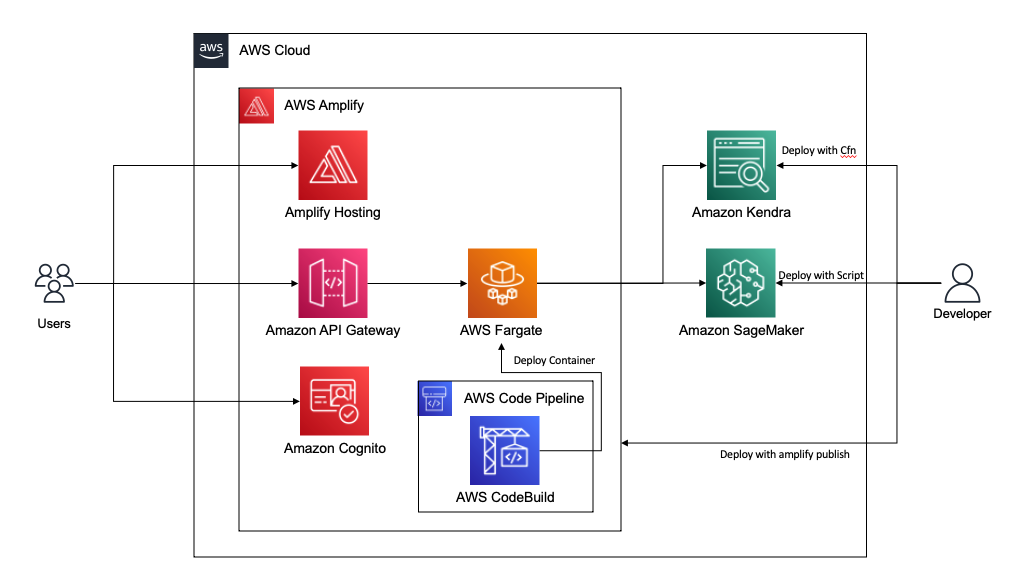
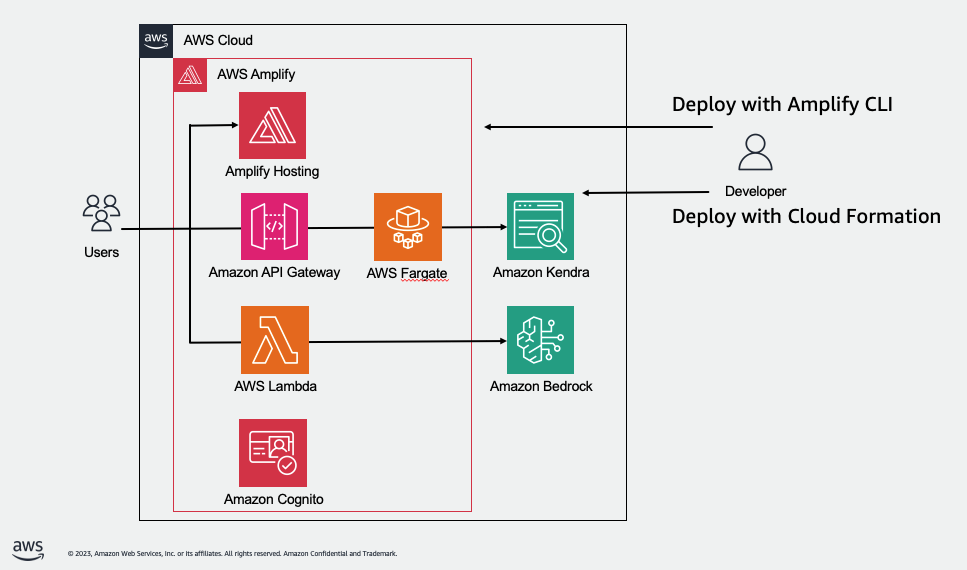
Update documentation

Changed region(s): [[0.0, 0.0298, 0.9928, 0.9842], [0.5895, 0.1491, 0.6205, 0.1789]]

diff --git a/src/README.md b/src/README.md
@@ -1,37 +1,40 @@
 # JP RAG SAMPLE (CLIENT)
 
+![](/docs/png/layout.png)
+
 ## ディレクトリ構造
 ```zsh
-/rag-kendra
-|--src  # client の web application 実装があるディレクトリ
-|  |--App.tsx  # メインのReactコンポーネント (TopBar, FilterBar, InteractionAreaで構成される)
-|  |--README.md  # README
-|  |--aws-exports.d.ts  # AWSリソース（例えば認証、API、ストレージなど）への接続情報
-|  |--layout  # Reactコンポーネントの実装 (TopBar, FilterBar, InteractionArea)
-|  |  |--FilterBar.tsx  # 画面左にあるフィルタ (FilterBar)
-|  |  |--InteractionArea.tsx  # 画面中央の表示のエントリー (InteractionArea)
-|  |  |--SpeachBalloon  # 画面中央に表示する AI, Kendra, RAG の部品群
-|  |  |  |--AI.tsx  # AIモード時の吹き出し
-|  |  |  |--Ballon.tsx  # 入力したクエリ文字と各吹き出しを表示するコンポーネント
-|  |  |  |--Human.tsx  # 人の入力文字の吹き出し
-|  |  |  |--Kendra.tsx  # Kendraの吹き出し (Kendraモード, RAGモード時の吹き出し)
-|  |  |  |--components  # 吹き出しを構成する部品
-|  |  |  |  |--AICore.tsx  # AIのCore部品。AIとRAGから被参照
-|  |  |  |  |--HighlightedTexts.tsx  # 太文字表示をする部品
-|  |  |  |  |--KendraResultDoc.tsx  # Kendra からのresponseのうち　document list を表示する部品
-|  |  |  |  |--KendraResultExcerpt.tsx  # Kendra からのresponseのうち 抜粋を表示する部品
-|  |  |  |  |--KendraResultFAQ.tsx  # Kendra からのresponseのうち FAQ を表示する部品
-|  |  |  |  |--KendraResultFeatured.tsx  # Kendra からのresponseのうち Featured result を表示する部品
-|  |  |  |  |--QuotedTexts.tsx  # 引用部分(eg.[0])をリンクにする部品
-|  |  |--TOTP.tsx  # 検索バー内のMFAを表示する部品
-|  |  |--TopBar.tsx  # 画面上部にある検索バー (TopBar)
-|  |--main.tsx  # Reactアプリケーションのエントリーポイント
-|  |--utils  # ユーティリティ
-|  |  |--constant.tsx  # 定数
-|  |  |--function.tsx  # server からの response を client 表示ように format を変更する関数定義
-|  |  |--interface.tsx  # server からの response の型定義
-|  |  |--serivce.tsx  # server との通信をする関数定義
-|  |--vite-env.d.ts  # 環境変数の型定義
+/rag-kendra/src/
+├── App.tsx  # メインのReactコンポーネント (TopBar, FilterBarなど)
+├── README.md  # README
+├── aws-exports.d.ts  # AWSリソース（例えば認証、API、ストレージなど）への接続情報
+├── i18n  # 多言語対応用リソース
+│   ├── configs.ts
+│   ├── en.json
+│   └── ja.json
+├── layout  # レイアウト
+│   ├── AiArea.tsx  # AI エージェントエリア
+│   ├── FilterArea.tsx  # フィルタエリア
+│   ├── InputWithSuggest.tsx  # 検索バー
+│   ├── KendraAreaAssets
+│   │   ├── KendraAreaMain.tsx  # 検索結果エリア
+│   │   └── components
+│   │       ├── HighlightedTexts.tsx  # 太文字化
+│   │       ├── KendraResultDoc.tsx  # 一般の文章
+│   │       ├── KendraResultExcerpt.tsx  # 抜粋された文章
+│   │       ├── KendraResultFAQ.tsx  # FAQ
+│   │       └── KendraResultFeatured.tsx  # 管理者にハイライトされた文章
+│   ├── MainArea.tsx  # 画面中央
+│   ├── TOTP.tsx  # 認証系
+│   └── TopBar.tsx  # 画面上部
+├── main.tsx  # Reactアプリケーションのエントリーポイント
+├── utils  # ユーティリティ
+│   ├── constant.tsx  # 定数
+│   ├── function.tsx  # server からのレスポンス整形など
+│   ├── interface.tsx  # 型定義
+│   ├── service.ts  # server との通信
+│   └── top_queries.json  # 上位クエリ
+└── vite-env.d.ts # 環境変数の型定義
 ```
 
 ## ローカル開発

diff --git a/docs/DeveloperGuide.md b/docs/DeveloperGuide.md
@@ -8,12 +8,7 @@ Kendra のインデックスを作成する。
 - 参考：指定したサイトから自動でデータをクローリングしてインデックスする [CloudFormation Template サンプル](../kendra/kendra-docs-index.yaml)
 - __このCloudFormationテンプレートで作成するスタックの名前は必ず控えておいてください。後で使います__
 
-### 2. LLM を SageMaker Endpoint にデプロイ
-
-SageMaker エンドポイントを作成する。
-- 参考: エンドポイントの作成方法は、([スクリプト](../llm/README.md)）を参照ください。Rinna の推論エンドポイントを CloudShel からデプロイする方法が記載されています。
-
-### 3. アプリのデプロイ
+### 2. アプリのデプロイ
 
 1. `npm install -g @aws-amplify/cli@12.12.0` で Amplify CLI のインストール
 2. `amplify configure` で認証情報を設定。リージョンの設定がアプリケーションのリージョンになるため注意。
@@ -34,8 +29,7 @@ SageMaker エンドポイントを作成する。
    1. `bash setenv.sh　CloudFormationStackの名前＋-Index`を実行する（スタック名がKendraRAGなら`bash setenv.sh KendraRAG-Index`となる）。このスクリプトで以下の処理が行われる。
       - `amplify/backend/api/fargate/src/docker-compose-template.yml` を同一フォルダ内に docker-compose.yml としてコピー
       - `.env` ファイルを作成し、VITE_INDEX_ID に Kendra の Index ID を設定
-   2. (Anthropic を使用する場合) `amplify/backend/api/fargate/secrets/.secret-anthropic` ファイルを作成し、Anthropic の API キーを入れる。また、`amplify/backend/api/fargate/src/docker-compose.yml` のコメントを解除する。ファイルがない/空の場合はエラーになるため使わない場合はコメントアウトする。
-   4. `amplify/backend/api/fargate/src/docker-compose.yml` の環境変数を必要に応じて変更する。
+   2. `amplify/backend/api/fargate/src/docker-compose.yml` の環境変数を必要に応じて変更する。
       - (MUST) `AWS_REGION` を amplify を立ち上げるリージョンにする。
       - (MUST) `AWS_BEDROCK_REGION` には bedrock の利用リージョンを指定
       - (WANT) `ALLOW_ORIGINS` は Access-Control-Allow-Origin の設定値です。
@@ -44,7 +38,6 @@ SageMaker エンドポイントを作成する。
 6.  `amplify publish` でデプロイ
    1. `? Are you sure you want to continue? (Y/n) ` は Y と入力
       - もし `You are not authorized to perform this operation` というエラーが発生した場合、ユーザー に `AdministratorAccess` ポリシー を付与して再試行お願いします。
-   2. `? Secret configuration detected. Do you wish to store new values in the cloud?` Yes  # <- 初回は Secret Manager に保存する
 
 
 ## 変更のデプロイ

diff --git a/amplify/backend/api/fargate/src/langchain/README.md b/amplify/backend/api/fargate/src/langchain/README.md
@@ -29,7 +29,6 @@
 3. `.env` ファイルを編集
       - (MUST) `AWS_REGION` は AWS のリージョンを指定(Kendra や SageMaker が動いている)
       - (MUST) `AWS_BEDROCK_REGION` には bedrock の利用リージョンを指定
-      - (MUST) `KENDRA_INDEX_ID` を Kendra の Index ID に指定
       - (MUST) `AWS_ACCESS_KEY_ID` に Amplifyを操作できるユーザ のアクセスキーを設定
       - (MUST) `AWS_SECRET_ACCESS_KEY` に に Amplifyを操作できるユーザ のシークレットアクセスキーを設定
       - (WANT) `ALLOW_ORIGINS` は Access-Control-Allow-Origin の設定値 を指定
